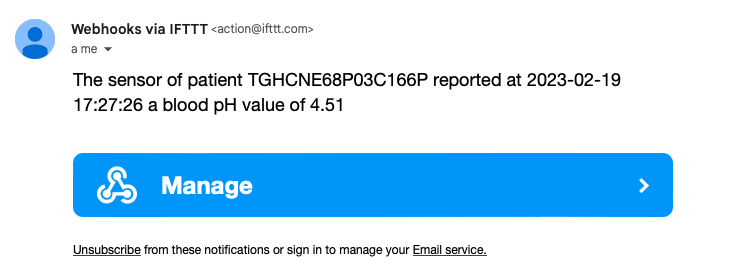
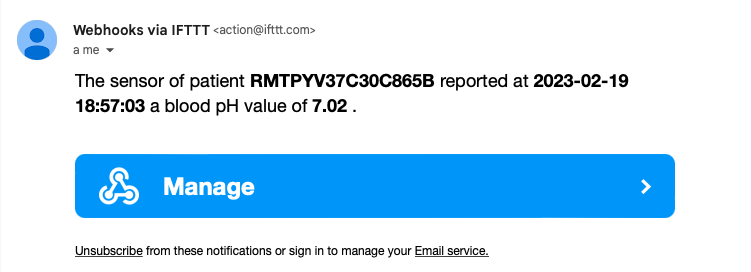
update README.md, create lambda function (email warning)

diff --git a/settings/emailWarning.py b/settings/emailWarning.py
@@ -1,0 +1,14 @@
+import requests
+import json
+
+
+def lambda_handler(event, context):
+    key = "<insert-your-IFTT-key-here>"
+    url = "https://maker.ifttt.com/trigger/email_warning/with/key/" + key
+    for record in event['Records']:
+        payload = record['body']
+        payload = json.loads(str(payload))
+        fiscal_code = payload['fiscal_code']
+        measure_date = payload['measure_date']
+        measured_value = payload['measured_value']
+        req = requests.post(url, json={"value1": fiscal_code, "value2": measure_date, "value3": measured_value})

diff --git a/README.md b/README.md
@@ -115,9 +115,9 @@ and then going to `http://localhost:8001`.
 	4. Select "*Receive a web request*" and write *"email_warning"* in the "*Event Name*" field. Save the event name since it is required to trigger the event. Click *Create trigger*.
 	5. In the applet page click *Then That*, type *"email"* in the search bar, and select *Email*.
 	6. Click *Send me an email* and fill the fields as follow:
-- *Subject*: `[WeatherStation] Attention a device encountered an error!`
+- *Subject*: `[KetoCare] Warning!`
 		
-- *Body*: `A device of WeatherStation generated an error.<br> Device {{Value1}} got an error at {{Value2}} <br> Sent by WeatherStation.`
+- *Body*: `The sensor of patient <b>{{Value1}}</b> reported at <b>{{Value2}}</b> a blood pH value of <b>{{Value3}}</b> .`
 	
 	7. Click *Create action*, *Continue*, and *Finish*.
 
